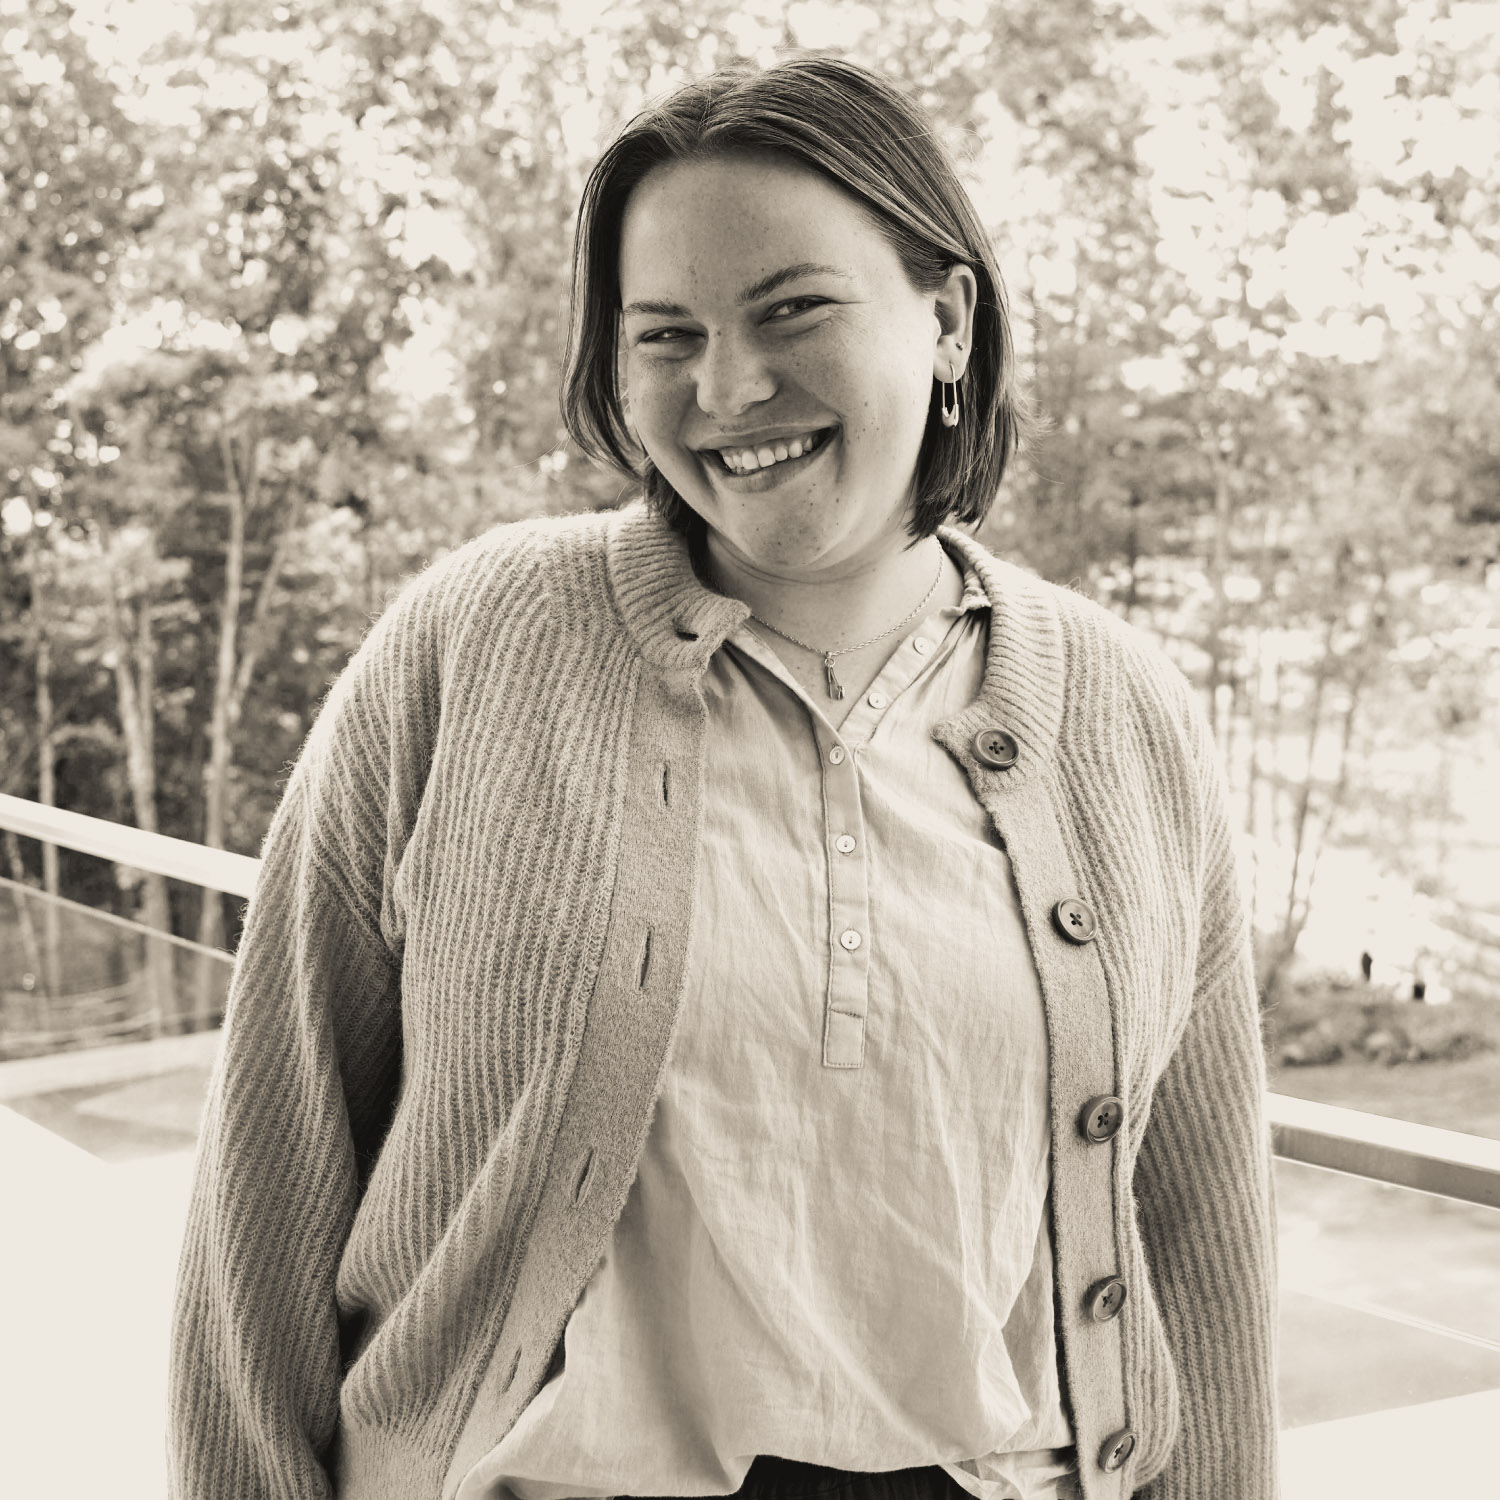
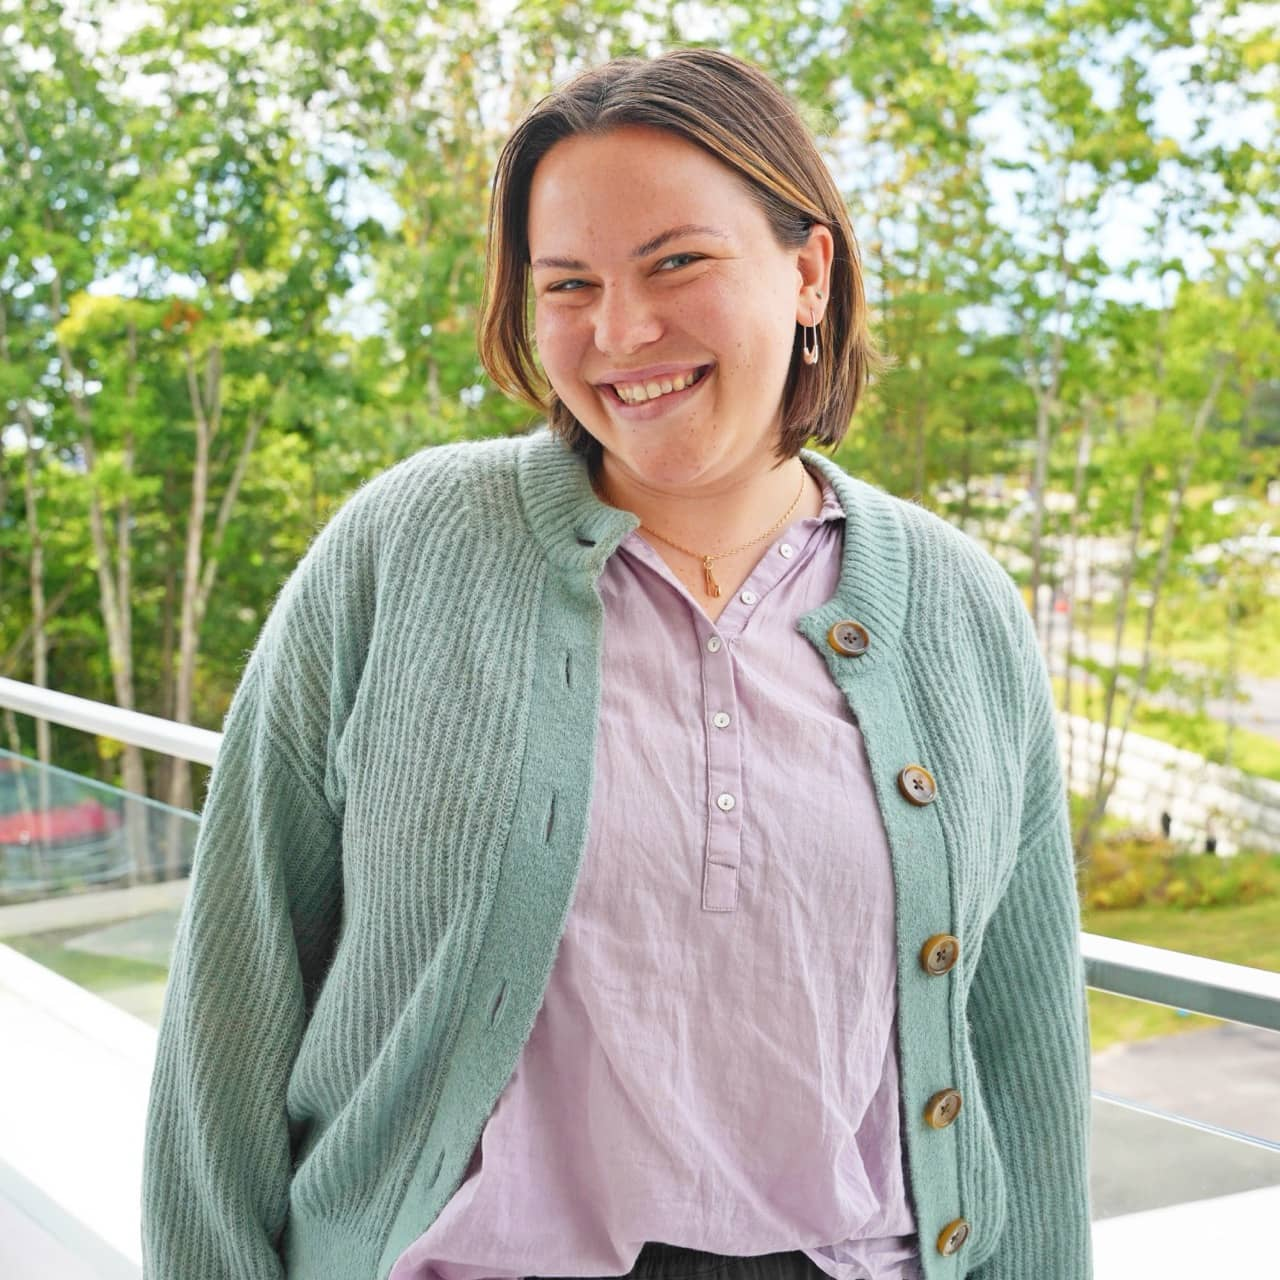
Add new board member headshots

diff --git a/about.md b/about.md
@@ -98,23 +98,35 @@ Maine Ad + Design is dedicated to fostering creativity, supporting professional 
         <h3>Christine Puopolo</h3>
     </div>
     <div class="board-member">
-        <img src="/assets/images/board/AGunyardin.jpg" alt="Alphan Günaydın">
+        <img src="/assets/images/board/AGunaydin.jpg" alt="Alphan Günaydın">
         <h3>Alphan Günaydın</h3>
-    </div>
-    <div class="board-member">
-        <img src="/assets/images/board/SCarey.jpg" alt="Stevie Carey">
-        <h3>Stevie Carey</h3>
     </div>
     <div class="board-member">
         <img src="/assets/images/board/DStevens.jpg" alt="Delaney Stevens">
         <h3>Delaney Stevens</h3>
     </div>
     <div class="board-member">
-        <div class="board-member-placeholder"></div>
+        <img src="/assets/images/board/BWebber.jpg" alt="Britt Webber">
+        <h3>Britt Webber</h3>
+    </div>
+    <div class="board-member">
+        <img src="/assets/images/board/JHarmon.jpg" alt="Jami Harmon">
+        <h3>Jami Harmon</h3>
+    </div>
+    <div class="board-member">
+        <img src="/assets/images/board/SCarey.jpg" alt="Stevie Carey">
+        <h3>Stevie Carey</h3>
+    </div>
+    <div class="board-member">
+        <img src="/assets/images/board/AGregg.jpg" alt="Aurora Gregg">
+        <h3>Aurora Gregg</h3>
+    </div>
+    <div class="board-member">
+        <img src="/assets/images/board/LBell.jpg" alt="Liz Bell">
         <h3>Liz Bell</h3>
     </div>
     <div class="board-member">
-        <div class="board-member-placeholder"></div>
-        <h3>Jami Harmon</h3>
+        <img src="/assets/images/board/TKervin.jpg" alt="Tereza Kervin">
+        <h3>Tereza Kervin</h3>
     </div>
 </div>
